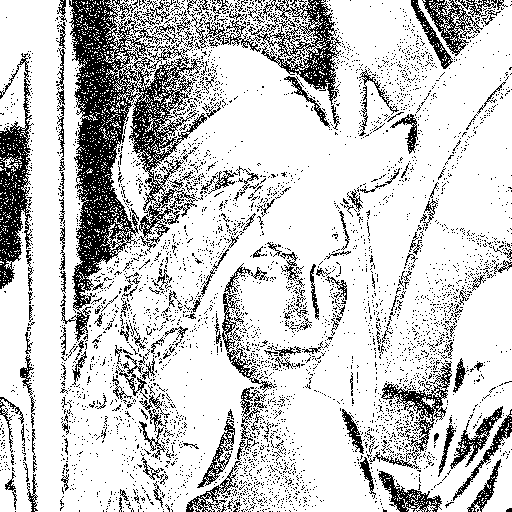
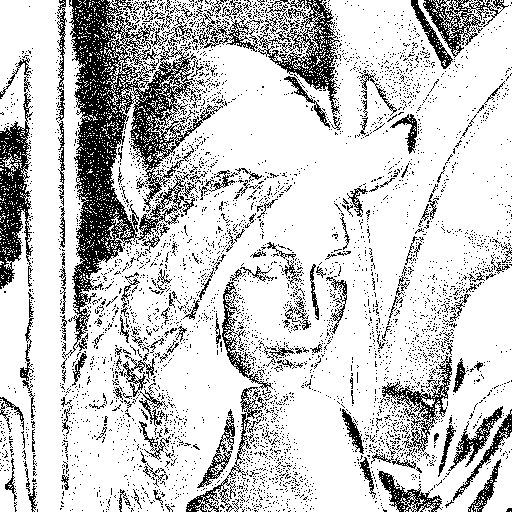
gleech is now functional, generated test images for all implemented functions :shipit:

diff --git a/lib/gleech.js b/lib/gleech.js
@@ -189,11 +189,12 @@
     var cut, cutend, cutstart, data, height, width;
     width = this.dimensions.width;
     height = this.dimensions.height;
-    data = this.pixelData;
+    data = new Uint32Array(this.pixelData);
     cutend = Math.floor(Math.random() * (width * height * 4));
     cutstart = Math.floor(cutend / 1.7);
     cut = data.subarray(cutstart, cutend);
     data.set(cut, Math.floor(Math.random() * ((width * height * 4) - cut.length)));
+    this.pixelData = data;
     return this;
   });
 
@@ -250,7 +251,7 @@
     algos = ['', 'numericSort', 'randomSort', 'orSort', 'xorSort', 'andSort'];
     if (algo === '') {
 
-    } else if (algo === null) {
+    } else if (!algo) {
       algo = algos[Math.floor(algos.length * Math.random())];
     } else {
       if (algo.indexOf('Sort' === -1)) {
@@ -268,67 +269,23 @@
     var da, data, mm;
     data = new Uint32Array(this.pixelData);
     mm = slice_range(this.dimensions.width, this.dimensions.height, 1);
-    da = Array.apply([], data.subarray(mm[0], mm[1]));
+    da = data.subarray(mm[0], mm[1]);
     if (algo === '') {
-      da.sort();
+      Array.prototype.sort.call(da);
     } else {
-      da.sort(Helper[algo]);
+      Array.prototype.sort.call(da, this[algo]);
     }
-    this.pixelData.data.set(da, mm[0]);
+    data.set(da, mm[0]);
+    this.pixelData = data;
     return this;
   });
 
-  Caman.Filter.register('sortA', function() {
-    return this.processPlugin('sortA', ['numericSort']);
-  });
-
-  Caman.Plugin.register('sortA', function(algo) {
-    var da, data, mm;
-    if (algo == null) {
-      algo = '';
-    }
-    data = new Uint32Array(this.pixelData);
-    mm = randminmax(0, data.length);
-    da = Array.apply([], data.subarray(mm[0], mm[1]));
-    if (algo === '') {
-      da.sort();
-    } else {
-      da.sort(Helper[algo]);
-    }
-    this.pixelData.data.set(da, mm[0]);
-    return this;
-  });
-
-  Caman.Filter.register('sortB', function() {
-    return this.processPlugin('sortB', ['numericSort']);
-  });
-
-  Caman.Plugin.register('sortB', function(algo) {
-    var cut, data, mm;
-    if (algo == null) {
-      algo = '';
-    }
-    data = new Uint32Array(this.pixelData);
-    mm = randminmax(0, data.length);
-    cut = data.subarray(mm[0], mm[1]);
-    if (algo === '') {
-      Array.prototype.sort.call(cut);
-    } else {
-      Array.prototype.sort.call(cut, Helper[algo]);
-    }
-    this.pixelData.data.set(data.buffer);
-    return this;
-  });
-
-  Caman.Filter.register('sort', function(algo, type) {
+  Caman.Filter.register('sort', function(algo) {
     var algos;
-    if (type == null) {
-      type = 'A';
-    }
     algos = ['', 'numericSort', 'randomSort', 'orSort', 'xorSort', 'andSort'];
     if (algo === '') {
 
-    } else if (algo === null) {
+    } else if (!algo) {
       algo = algos[Math.floor(algos.length * Math.random())];
     } else {
       if (algo.indexOf('Sort' === -1)) {
@@ -339,27 +296,43 @@
         console.log('Invalid algo, try this on for size: %s', algo);
       }
     }
-    if (type === 'A') {
-      return this.processPlugin('sortA', [algo]);
+    return this.processPlugin('sort', [algo]);
+  });
+
+  Caman.Plugin.register('sort', function(algo) {
+    var da, data, mm;
+    data = new Uint32Array(this.pixelData);
+    mm = randminmax(this.dimensions.width, this.dimensions.height, 1);
+    da = data.subarray(mm[0], mm[1]);
+    if (algo === '') {
+      Array.prototype.sort.call(da);
     } else {
-      return this.processPlugin('sortB', [algo]);
+      Array.prototype.sort.call(da, this[algo]);
     }
+    data.set(da, mm[0]);
+    this.pixelData = data;
+    return this;
   });
 
-  Caman.Filter.register('sliceSort', function() {
-    return this.processPlugin('sliceSort', []);
+  Caman.Filter.register('sliceSort', function(algo) {
+    return this.processPlugin('sliceSort', [algo]);
   });
 
-  Caman.Plugin.register('sliceSort', function() {
-    var cut, data, height, mm, offset, width;
+  Caman.Plugin.register('sliceSort', function(algo) {
+    var da, data, height, mm, offset, width;
     width = this.dimensions.width;
     height = this.dimensions.height;
-    data = new Uint32Array(this.pixelData.buffer);
+    data = new Uint32Array(this.pixelData);
     mm = slice_range(width, height, 1);
-    cut = data.subarray(mm[0], mm[1]);
-    offset = Math.floor((Math.random() * (width * height)) - cut.length);
-    Array.prototype.sort.call(cut, numericSort);
-    this.pixelData.set(data, offset);
+    da = data.subarray(mm[0], mm[1]);
+    offset = Math.floor((Math.random() * (width * height)) - da.length);
+    if (algo === '') {
+      Array.prototype.sort.call(da);
+    } else {
+      Array.prototype.sort.call(da, this[algo]);
+    }
+    data.set(da, offset);
+    this.pixelData = data;
     return this;
   });
 
@@ -368,7 +341,7 @@
     algos = ['', 'numericSort', 'randomSort', 'orSort', 'xorSort', 'andSort'];
     if (algo === '') {
 
-    } else if (algo === null) {
+    } else if (!algo) {
       algo = algos[Math.floor(algos.length * Math.random())];
     } else {
       if (algo.indexOf('Sort' === -1)) {
@@ -382,21 +355,54 @@
     return this.processPlugin('sortRows', [algo]);
   });
 
-  Caman.Plugin.register('sortRows', function() {
-    var da, data, height, i, k, ref, ref1, width;
-    data = new Uint32Array(this.pixelData.buffer);
+  Caman.Plugin.register('sortRows', function(algo) {
+    var cut, data, height, i, k, ref, ref1, width;
+    data = new Uint32Array(this.pixelData);
     width = this.dimensions.width;
     height = this.dimensions.height;
     for (i = k = 0, ref = data.length, ref1 = width; ref1 > 0 ? k < ref : k > ref; i = k += ref1) {
-      da = Array.apply([], data.subarray(i, i + width));
+      cut = data.subarray(i, i + width);
+      Array.prototype.sort.call(cut, this[algo]);
+      data.set(cut, i);
+    }
+    this.pixelData = data;
+    return this;
+  });
+
+  Caman.Filter.register('sortRows', function(algo) {
+    var algos;
+    algos = ['', 'numericSort', 'randomSort', 'orSort', 'xorSort', 'andSort'];
+    if (algo === '') {
+
+    } else if (!algo) {
+      algo = algos[Math.floor(algos.length * Math.random())];
+    } else {
+      if (algo.indexOf('Sort' === -1)) {
+        algo += 'Sort';
+      }
+      if (indexOf.call(algos, algo) < 0) {
+        algo = algos[Math.floor(algos.length * Math.random())];
+        console.log('Invalid algo, try this on for size: %s', algo);
+      }
+    }
+    return this.processPlugin('sortRows', [algo]);
+  });
+
+  Caman.Plugin.register('sortRows', function(algo) {
+    var da, data, height, i, k, ref, ref1, width;
+    data = new Uint32Array(this.pixelData);
+    width = this.dimensions.width;
+    height = this.dimensions.height;
+    for (i = k = 0, ref = data.length, ref1 = width; ref1 > 0 ? k < ref : k > ref; i = k += ref1) {
+      da = data.subarray(i, i + width);
       if (algo === '') {
-        da.sort();
+        Array.prototype.sort.call(da);
       } else {
-        da.sort(Helper[algo]);
+        Array.prototype.sort.call(da, this[algo]);
       }
       data.set(da, i);
     }
-    this.pixelData.set(data.buffer);
+    this.pixelData = data;
     return this;
   });
 
@@ -470,33 +476,13 @@
 
   Caman.Plugin.register('invert', function() {
     var data, i, k, len;
-    data = new Uint32Array(this.pixelData.buffer);
+    data = new Uint32Array(this.pixelData);
     for (k = 0, len = data.length; k < len; k++) {
       i = data[k];
       data[i] = ~data[i] | 0xFF000000;
     }
     this.pixelData = data;
     return this;
-  });
-
-  Caman.Filter.register('anySort', function() {
-    var opt;
-    opt = Math.round(Math.random());
-    if (opt === 1) {
-      return this.sortA();
-    } else {
-      return this.sortB();
-    }
-  });
-
-  Caman.Filter.register('anyShortSort', function() {
-    var opt;
-    opt = Math.round(Math.random());
-    if (opt === 1) {
-      return this.shortDumbSort();
-    } else {
-      return this.shortNumericSort();
-    }
   });
 
   Caman.Filter.register('redShift', function() {

diff --git a/main.js b/main.js
@@ -7,15 +7,11 @@ var functions = [
   'slice',
   'dither8bit',
   'shortSort',
-  'sortA',
-  'sortB',
   'sort',
   'sliceSort',
   'sortRows',
   'rgbGlitch',
   'invert',
-  'anySort',
-  'anyShortSort',
   'redShift',
   'greenShift',
   'blueShift',
@@ -25,20 +21,16 @@ var functions = [
   'ditherBitshift'
 ];
 
-var i = functions.length - 1;
-(function() {
-  var fun = functions[i];
-  try {
-    gleech('./examples/Lenna.png', function(fun) {
-      console.log(fun);
-      this[fun]();
-      this.render(function() {
-        this.save('./examples/' + fun + '.png');
-      });
+try {
+  gleech('./examples/Lenna.png', function(fun) {
+    var i = Math.floor(functions.length * Math.random());
+    var fun = process.argv[2] || functions[i];
+    console.log(' > attempting to run funtion: %s', fun);
+    this[fun]();
+    this.render(function() {
+      this.save('./examples/' + fun + '.png');
     });
-  } catch (e) {
-    console.log('%s failed with %s', fun, e);
-  }
-  i--;
-  setTimeout(arguments.callee, 30);
-})(i);
+  });
+} catch (e) {
+  console.log('%s failed with %s', fun, e);
+}
